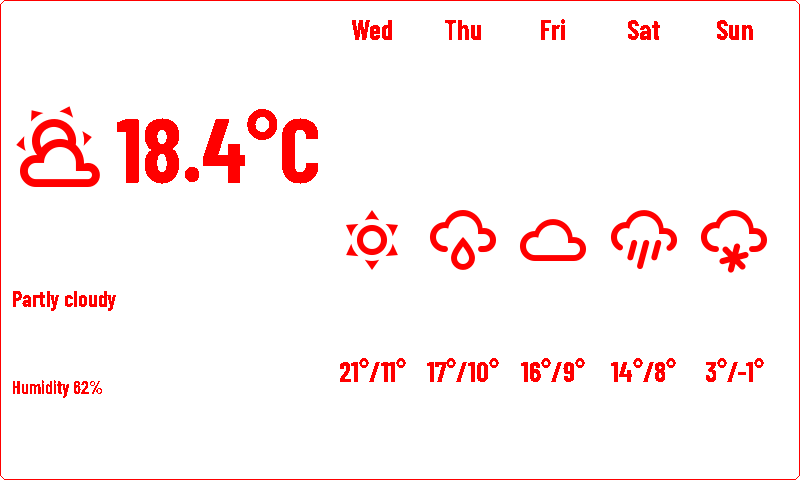
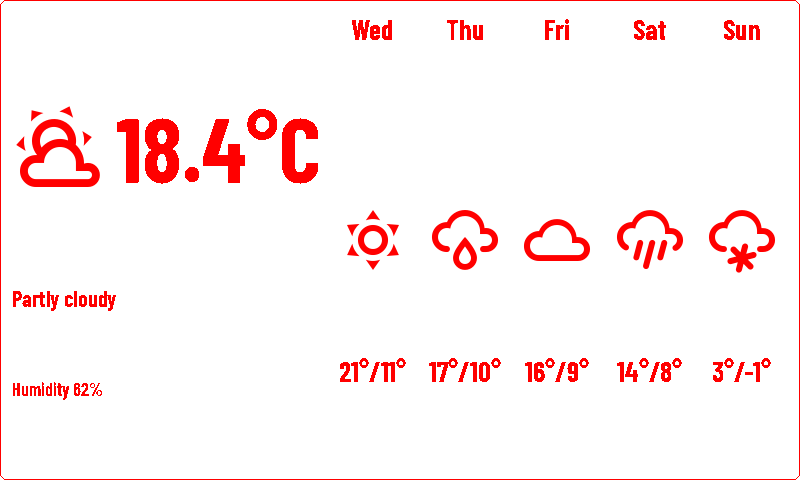
Make the cells of a grid end at the edge of their box
The SDK split a box into equal cells without counting the gaps between them, so the
last cell stopped short of the edge: three columns with a gap of 8 in 800 px ended at
792 px. The shares are now cut from what is left after the gaps, so the cells and the
gaps add up to the box exactly, and a cell is never less than one pixel.

Widgets that lay themselves out with gaps get the extra pixels back. Only the weather
widget moved: its golden pictures, its preview and the pictures of the widgets page
are regenerated. The Basic editor builds on this, because the frame of a region is
taken from the same grid.

diff --git a/custom_components/opendisplay_studio/sdk/layout.py b/custom_components/opendisplay_studio/sdk/layout.py
@@ -13,13 +13,15 @@ def _split(total: int, weights: Sequence[int], gap: int) -> list[tuple[int, int]
     available = max(count, total - gap * (count - 1))
     weight_sum = sum(weights)
     spans: list[tuple[int, int]] = []
-    offset = 0
     used_weight = 0
-    for weight in weights:
+    start = 0
+    for index, weight in enumerate(weights):
         used_weight += weight
+        # The shares are cut from what is left after the gaps, so the last one ends
+        # exactly where `total` does.
         end = round(available * used_weight / weight_sum)
-        spans.append((offset, max(1, end - offset)))
-        offset = end + gap
+        spans.append((start + gap * index, max(1, end - start)))
+        start = end
     return spans
 
 
